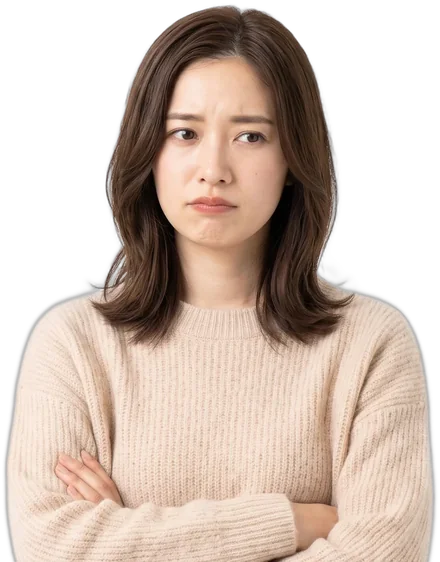
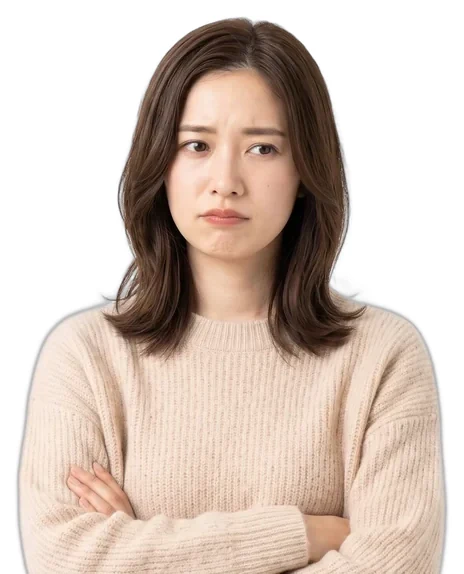
sakuapp-lp: sticker-style model cutouts
Claude-Session: https://claude.ai/code/session_011G5Vf8nAiyPg2wWDT3u9Dh

diff --git a/sakuapp-lp/index.html b/sakuapp-lp/index.html
@@ -990,6 +990,10 @@ section:not(.alt):not(.band):not(.hero2):not(.vhero){background:#f5faf9}
 .xf strong{-webkit-text-fill-color:var(--brand)!important;color:var(--brand)!important}
 header#hd .hbar{background:rgba(14,124,140,.92)!important}
 .tag,.xl{color:var(--brand)!important;border-color:rgba(14,124,140,.25)!important;background:#fff!important}
+
+/* sticker look for cutout models */
+.pfig img{filter:drop-shadow(0 6px 10px rgba(14,60,70,.18)) drop-shadow(0 1px 2px rgba(14,60,70,.12))!important;transform:rotate(-2.5deg);transform-origin:50% 100%}
+.pfig.tint-y img{transform:rotate(2.5deg)}
 </style>
 <style>
 /* ヘッダー：ヒーロー（動画ヒーロー＋#intro）を過ぎてから表示 */
@@ -1093,7 +1097,7 @@ header#hd .btn{min-height:34px;padding:0 16px;font-size:13px;border-radius:999px
 <section class="alt"><div class="wrap">
  <div class="phead">
  <h2>アプリを<br class="spbr"><span class="nw">つくりたい。</span><br class="spbr"><span class="nw">でも、</span><wbr>現実は。</h2>
- <figure class="pfig tint-m"><img src="worry.webp" alt="予算の壁に悩み、腕を組んで考え込む女性" width="840" height="1073" loading="lazy" decoding="async"></figure>
+ <figure class="pfig tint-m"><img src="worry.webp" alt="予算の壁に悩み、腕を組んで考え込む女性" width="464" height="574" loading="lazy" decoding="async"></figure>
  <p class="lead">こんな理由で、あきらめていませんか？</p>
 </div>
  <div class="bub chat" role="list" aria-label="よくある悩み"><div class="chd" aria-hidden="true"><img src="avatar.webp" alt="" width="120" height="120"><span>心の声</span><i></i></div><div class="b" role="listitem"><img class="av" src="avatar.webp" alt="" width="120" height="120" aria-hidden="true"><div class="bb"><b>「見積もりが<wbr>100万円超え…」</b><span>開発会社に相談したら、個人の副業やお店の予算では最初の一歩すら踏み出せない。</span></div><time aria-hidden="true">23:41</time></div><div class="b" role="listitem"><span class="av" aria-hidden="true"></span><div class="bb"><b>「制限が多くて<wbr>断念…」</b><span>ノーコードで自作したら、やりたいことの半分しか実現できず、時間だけが過ぎていく。</span></div><time aria-hidden="true">23:42</time></div><div class="b" role="listitem"><span class="av" aria-hidden="true"></span><div class="bb"><b>「後からいくら<wbr>請求されるか不安…」</b><span>安い見積もりを見つけても、総額が見えないままでは頼む決心がつかない。</span></div><time aria-hidden="true">23:44</time></div><div class="b" role="listitem"><span class="av" aria-hidden="true"></span><div class="bb"><b>「安いアプリは<wbr>セキュリティが心配…」</b><span>お客様のデータを預かるなら、個人情報や決済が絡むからこそ妥協したくない。</span></div><time aria-hidden="true">23:47</time></div><div class="b me" aria-label="サクアプが入力中"><div class="bb"><span class="dots"><i></i><i></i><i></i></span></div></div></div>
@@ -1104,7 +1108,7 @@ header#hd .btn{min-height:34px;padding:0 16px;font-size:13px;border-radius:999px
 <section id="why"><div class="wrap">
  <div class="phead">
  <h2><span class="nw">安さにも速さにも、</span><br class="spbr">理由があります。</h2>
- <figure class="pfig tint-y"><img src="smile.webp" alt="スマートフォンを手に、笑顔を見せる女性" width="900" height="1044" loading="lazy" decoding="async"></figure>
+ <figure class="pfig tint-y"><img src="smile.webp" alt="スマートフォンを手に、笑顔を見せる女性" width="464" height="522" loading="lazy" decoding="async"></figure>
  <p class="lead">AIと一緒に作ることで、開発の手間を大きく減らし、その分を価格に反映しています。</p>
 </div>
  <div class="rows"><div class="r"><span class="n">01</span><div><span class="tag">スピード</span><h3>AIと作るから<wbr>最短1ヶ月</h3></div><p>プログラムを書く作業をAIと進めて、開発時間を大きく圧縮。かかる手間が減ったぶん、価格にも反映しています。</p></div><div class="r"><span class="n">02</span><div><span class="tag">本物のコード</span><h3>既製品ではなく<wbr>オーダーメイド</h3></div><p>ノーコードのような「できないこと」が出にくく、事業と一緒に育てられます。</p></div><div class="r"><span class="n">03</span><div><span class="tag">明朗会計</span><h3>ごまかし一切なしの<wbr>「1文字<span class="nb">0.4円」</span></h3></div><p>何にいくらかかるのかを、見積もりの時点で全部お見せします。</p></div></div>
